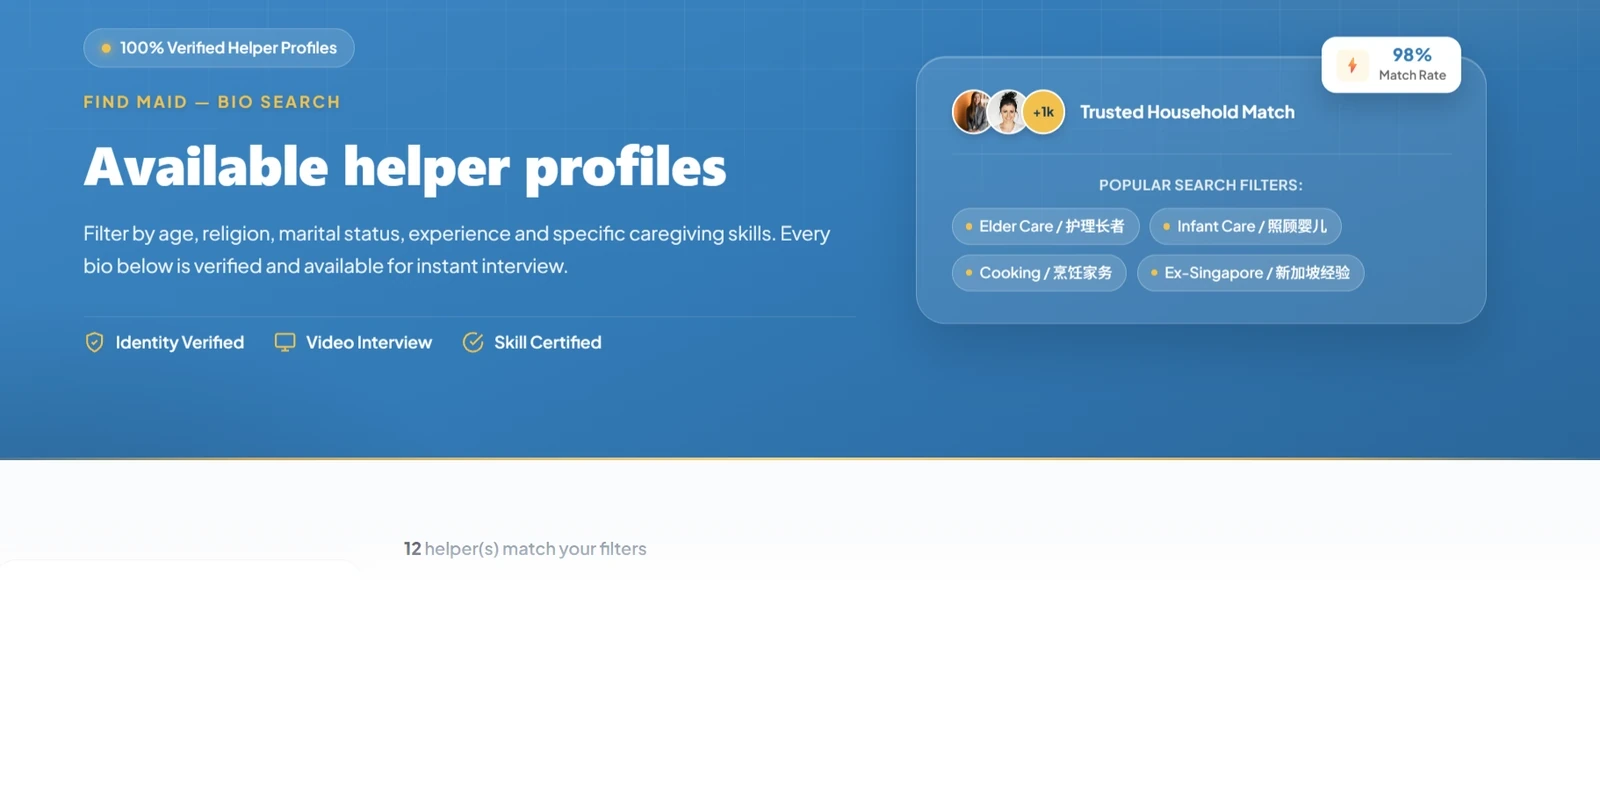
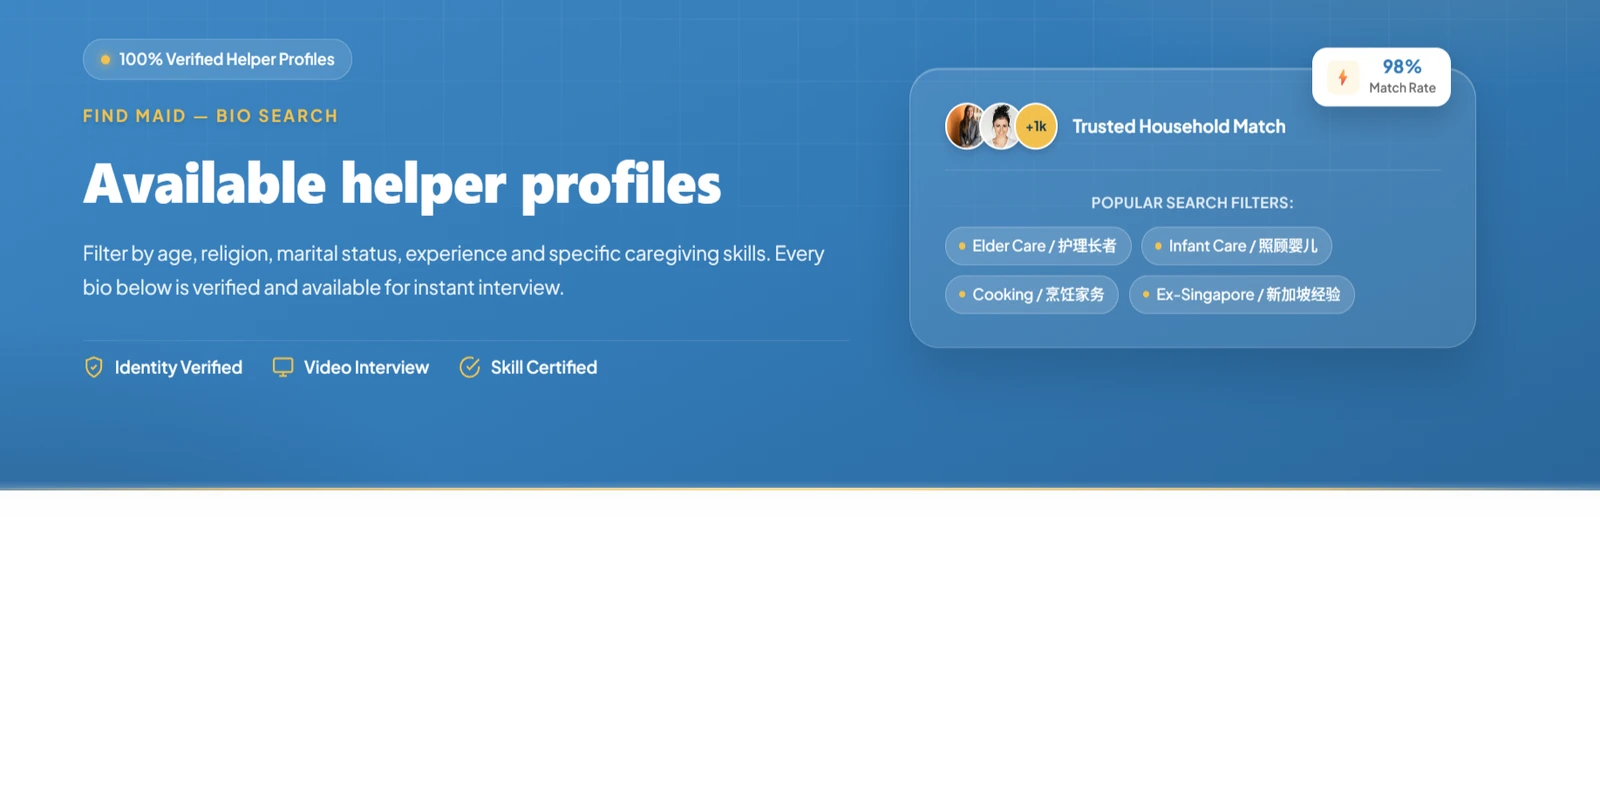
Polish Find-a-Maid screenshot framing
Use the supplied Find-a-Maid page image and add top padding so all product previews sit cleanly inside their color frames.

diff --git a/index.html b/index.html
@@ -13,7 +13,7 @@
     <link rel="preconnect" href="https://fonts.googleapis.com" />
     <link rel="preconnect" href="https://fonts.gstatic.com" crossorigin />
     <link href="https://fonts.googleapis.com/css2?family=DM+Mono:wght@400;500&family=DM+Sans:wght@400;500;600;700&family=Space+Grotesk:wght@400;500;600;700&display=swap" rel="stylesheet" />
-    <link rel="stylesheet" href="styles.css?v=10" />
+    <link rel="stylesheet" href="styles.css?v=12" />
     <script src="script.js" defer></script>
   </head>
   <body>

diff --git a/styles.css b/styles.css
@@ -189,3 +189,5 @@ body{font-size:17px}
 @media(max-width:760px){.project-visual.screenshot-visual:has(.project-image-link--salary){aspect-ratio:2.2/1}}
 .project-image-link--tenancy img{transform:scale(1)}
 .project-image-link--tenancy:hover img,.project-image-link--tenancy:focus-visible img{transform:scale(1.035)}
+.project-visual.screenshot-visual{padding-top:12px}
+@media(max-width:760px){.project-visual.screenshot-visual{padding-top:10px}}
